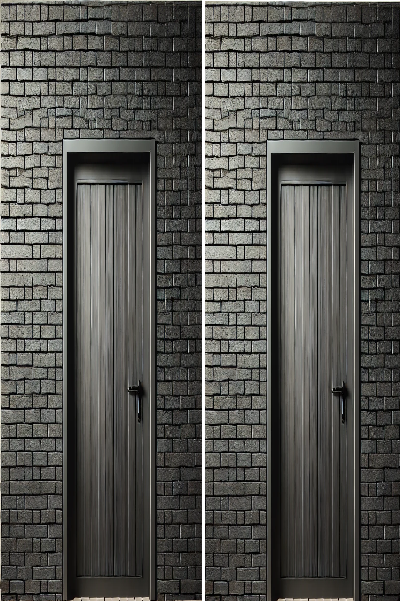
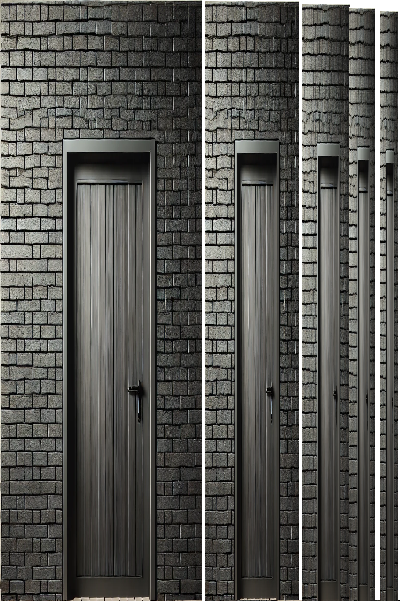
Add files via upload

diff --git a/triangleimage.py b/triangleimage.py
@@ -29,7 +29,7 @@ def draw_triangles_with_points(screen, image):
         # Parte esquerda do triângulo (encolhendo)
         for y in range(left_height):
             scaled_y = int(y / (left_height + 1) * image_height)
-            color = image.get_at((int(x / half_width * image_width), scaled_y))
+            color = image.get_at((int(half_width-x / half_width * image_width), scaled_y))
             screen.set_at((half_width + x, (screen_height - left_height) // 2 + y), color)
 
         # Parte direita do triângulo (encolhendo)
